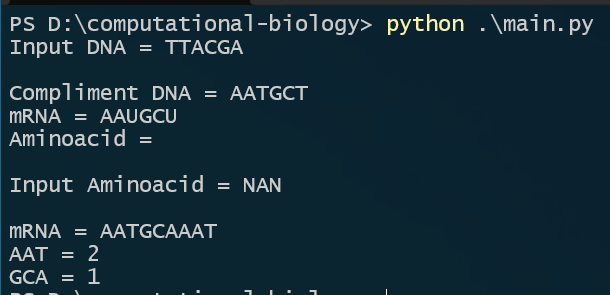
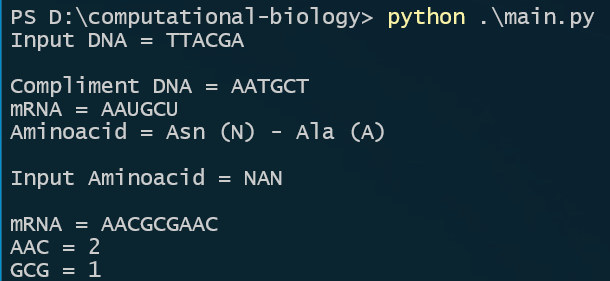
Update

diff --git a/main.py b/main.py
@@ -43,6 +43,79 @@ def codon_frequency(mrna_seq: str) -> dict:
     return dic
 
 
+def mrna_to_aminoacid(mrna_seq: str) -> str:
+    assert len(mrna_seq) % 3 == 0, "Invalid mRNA sequence length"
+
+    def translate(codon: str) -> str:
+        if codon == "UUU" or codon == "UUC":
+            return "Phe (F)"
+        elif (
+            codon == "UUA"
+            or codon == "UUG"
+            or codon == "CUU"
+            or codon == "CUC"
+            or codon == "CUA"
+            or codon == "CUG"
+        ):
+            return "Leu (L)"
+        elif codon == "AUU" or codon == "AUC" or codon == "AUA":
+            return "Ile (I)"
+        elif codon == "AUG":
+            return "Met (M)"
+        elif codon == "GUU" or codon == "GUC" or codon == "GUA" or codon == "GUG":
+            return "Val (V)"
+        elif (
+            codon == "UCU"
+            or codon == "UCC"
+            or codon == "UCA"
+            or codon == "UCG"
+            or codon == "AGU"
+            or codon == "AGC"
+        ):
+            return "Ser (S)"
+        elif codon == "CCU" or codon == "CCC" or codon == "CCA" or codon == "CCG":
+            return "Pro (P)"
+        elif codon == "ACU" or codon == "ACC" or codon == "ACA" or codon == "ACG":
+            return "Thr (T)"
+        elif codon == "GCU" or codon == "GCC" or codon == "GCA" or codon == "GCG":
+            return "Ala (A)"
+        elif codon == "UAU" or codon == "UAC":
+            return "Tyr (Y)"
+        elif codon == "UAA" or codon == "UAG" or codon == "UGA":
+            return "Stop (*)"
+        elif codon == "CAU" or codon == "CAC":
+            return "His (H)"
+        elif codon == "CAA" or codon == "CAG":
+            return "Gln (Q)"
+        elif codon == "AAU" or codon == "AAC":
+            return "Asn (N)"
+        elif codon == "AAA" or codon == "AAG":
+            return "Lys (K)"
+        elif codon == "GAU" or codon == "GAC":
+            return "Asp (D)"
+        elif codon == "GAA" or codon == "GAG":
+            return "Glu (E)"
+        elif codon == "UGU" or codon == "UGC":
+            return "Cys (C)"
+        elif (
+            codon == "AGA"
+            or codon == "AGG"
+            or codon == "CGU"
+            or codon == "CGC"
+            or codon == "CGA"
+            or codon == "CGG"
+        ):
+            return "Arg (R)"
+        elif codon == "GGU" or codon == "GGC" or codon == "GGA" or codon == "GGG":
+            return "Gly (G)"
+
+    result = []
+    for i in range(0, len(mrna_seq), 3):
+        result.append(translate(mrna_seq[i : i + 3]))
+
+    return " - ".join(result)
+
+
 def aminoacid_to_codon(amino_acid: str) -> str or None:
     tac = {
         "A": [
@@ -162,12 +235,13 @@ def aminoacid_to_codon(amino_acid: str) -> str or None:
 input_dna = "TTACGA"
 dna_compliment = compliment(input_dna)
 mrna = dnaseq_to_mrna(input_dna)
+aminoacid = mrna_to_aminoacid(mrna)
 
 print(f"Input DNA = {input_dna}")
 print()
 print(f"Compliment DNA = {dna_compliment}")
 print(f"mRNA = {mrna}")
-print(f"Aminoacid =")
+print(f"Aminoacid = {aminoacid}")
 print()
 
 input_aminoacid = "NAN"

diff --git a/README.md b/README.md
@@ -1,3 +1,5 @@
 # Computational Biology - Week 3 Individual Assignment
 
 ##### Transcription and Translation
+
+![sample output](https://github.com/vincentyono/comp-bio-week3-assignment/blob/master/img/sample_output.png)
